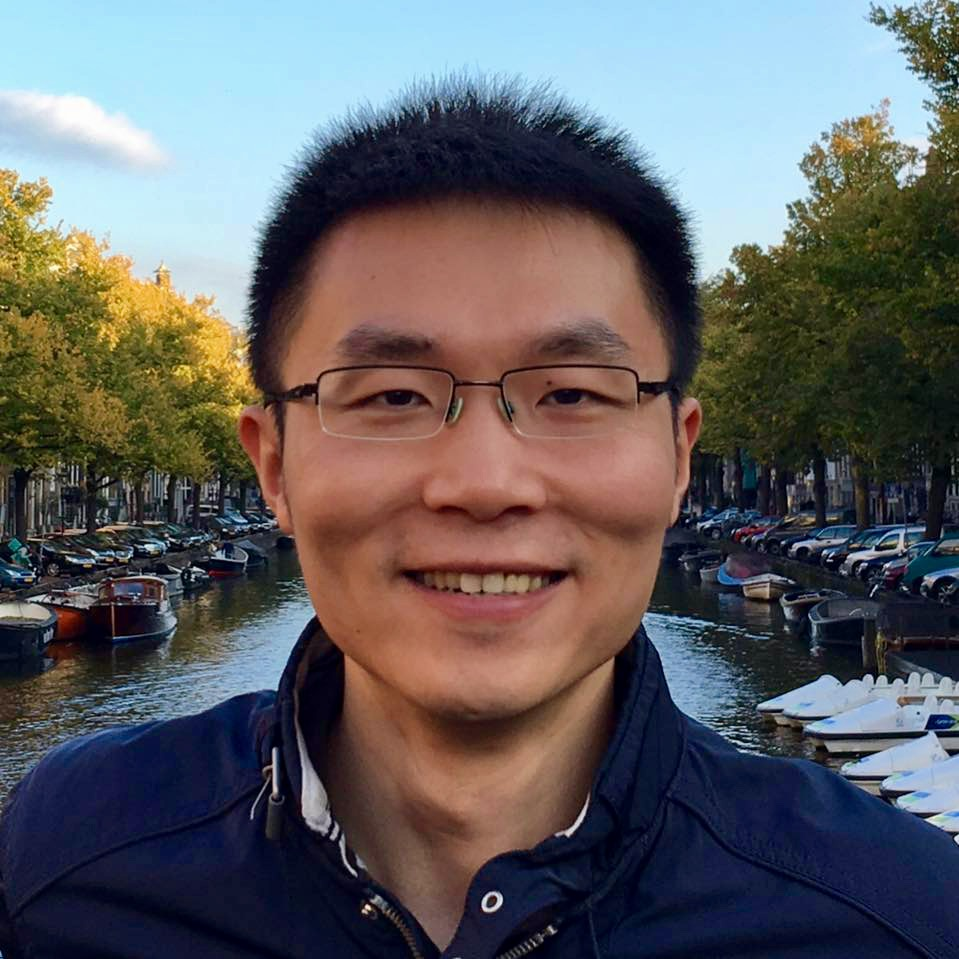
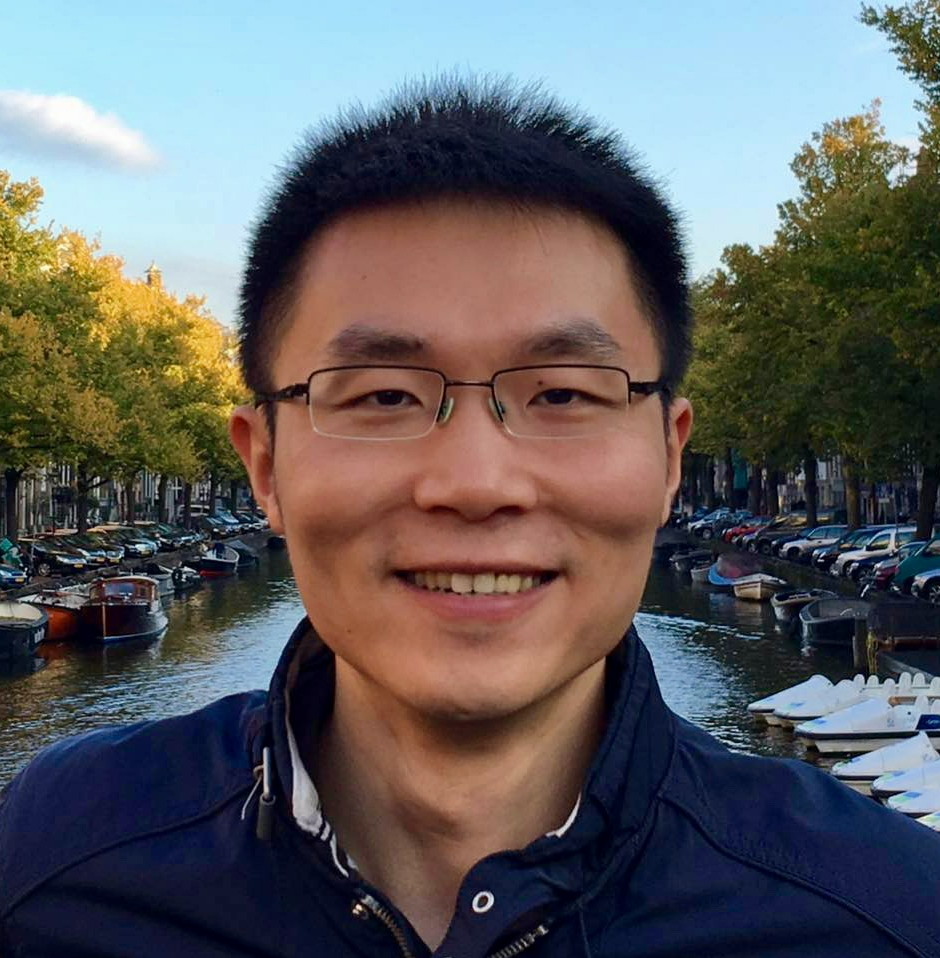
second draft by jiayuan

diff --git a/pages/organizers.html b/pages/organizers.html
@@ -28,11 +28,11 @@
   <header class="header">
     <div class="container">
       <div class="row">
-        <div class="col-xs-2">
+        <!-- <div class="col-xs-2">
           <a href="../">
             <img class="img-fluid" src=../images/logo.png alt="ML4H: Machine Learning for Health">
           </a>
-        </div>
+        </div> -->
         <div class="col-xs-10">
           <h1 class="title"><a href="../">NeurIPS 2020 Self-Supervised Learning: Theory and Practice</a></h1>
           <p class="text-muted">Workshop at NeurIPS 2020</p>
@@ -40,8 +40,8 @@
             <li class="list-inline-item"><a href="../pages/call-for-participation.html">Call for Participation</a></li>
             <li class="list-inline-item"><a href="../pages/schedule.html">Schedule</a></li>
             <li class="list-inline-item"><a href="../pages/speakers.html">Speakers</a></li>
-            <li class="list-inline-item"><a href="../pages/mentorship.html">Mentorship</a></li>
-            <li class="list-inline-item"><a href="../pages/resources.html">Resources</a></li>
+            <!-- <li class="list-inline-item"><a href="../pages/mentorship.html">Mentorship</a></li> -->
+            <!-- <li class="list-inline-item"><a href="../pages/resources.html">Resources</a></li> -->
             <li class="list-inline-item"><a href="../pages/organizers.html">Organizers</a></li>
           </ul>
         </div>
@@ -66,12 +66,11 @@ for helping peer review all submissions. -->
 
 
 <!-- <p><br /></p> -->
-<br />
 
 
 <div class="container">
 <div class="row display-flex">
-
+    <!-- <p><br /></p> -->
     <!-- <div id = "container"> -->
     <!-- 6/12 = 1/2 width on mobile, 4/12 = 1/3 screen on laptop -->
     <div class="col-xs-6 col-md-4"> 
@@ -80,7 +79,7 @@ for helping peer review all submissions. -->
         <img 
             src="../images/headshots_200x200/pengtao.jpg"
             alt="Pengtao Xie headshot"
-            style="width:88%"
+            style="width:270px;height:270px"
             align="center">
         <div class="caption">
             <h5>Pengtao Xie</h5>
@@ -101,7 +100,7 @@ for helping peer review all submissions. -->
     <!-- </div> -->
 
    
-    <br />
+    <!-- <br /> -->
     <!-- 6/12 = 1/2 width on mobile, 4/12 = 1/3 screen on laptop -->
     <div class="col-xs-6 col-md-4"> 
         <div class="thumbnail">
@@ -109,7 +108,7 @@ for helping peer review all submissions. -->
             <img 
                 src="../images/headshots_200x200/shanghang.jpg"
                 alt="Shanghang Zhang headshot"
-                style="width:88%"
+                style="width:270px;height:270px"
                 align="center">
             <div class="caption">
                 <h5>Shanghang Zhang</h5>
@@ -133,30 +132,34 @@ for helping peer review all submissions. -->
             .blb{float:left;width:65%}
         </style>
     
-
+    <!-- <p><br /></p> -->
+    <!-- <p><br /></p> -->
     <!-- 6/12 = 1/2 width on mobile, 4/12 = 1/3 screen on laptop -->
     <div class="col-xs-6 col-md-4"> 
         <div class="thumbnail">
             <a href="https://people.csail.mit.edu/pulkitag/">
             <img 
                 src="../images/headshots_200x200/pulkit.jpg"
-                alt="Pengtao Xie headshot"
-                style="width:88%"
+                alt="Pulkit Agrawal headshot"
+                style="width:270px;height:270px"
                 align="center">
             <div class="caption">
-                <h5>Pengtao Xie</h5>
+                <h5>Pulkit Agrawal</h5>
             </div>
             </a>
             <p>Assistant Professor, MIT
+            
             <!-- <br /> -->
             <!-- <emph>Finance Chair</emph> -->
             <!-- </p> -->
             <br />
             <emph>Email:</emph>
             <a href="pulkitag@mit.edu"> pulkitag@mit.edu </a>
+            
             <!-- <br /> -->
             <!-- <emph><a href="https://scholar.google.com/citations?user=voqw10cAAAAJ&hl=en"> Google Scholar Page</a></emph> -->
-            </p>     
+            </p>    
+            <br /> 
     </div>
     </div>
 
@@ -166,6 +169,7 @@ for helping peer review all submissions. -->
     <br />
     <br />
     <br />
+    <!-- <p><br /></p> -->
 
     <!-- 6/12 = 1/2 width on mobile, 4/12 = 1/3 screen on laptop -->
     <div class="col-xs-6 col-md-4"> 
@@ -174,7 +178,7 @@ for helping peer review all submissions. -->
             <img 
                 src="../images/headshots_200x200/ishan.jpg"
                 alt="Pengtao Xie headshot"
-                style="width:88%"
+                style="width:270px;height:270px"
                 align="center">
             <div class="caption">
                 <h5>Ishan Misra</h5>
@@ -203,7 +207,7 @@ for helping peer review all submissions. -->
             <img 
                 src="../images/headshots_200x200/cynthia.jpg"
                 alt="Pengtao Xie headshot"
-                style="width:88%"
+                style="width:270px;height:270px"
                 align="center">
             <div class="caption">
                 <h5>Cynthia Rudin</h5>
@@ -232,7 +236,7 @@ for helping peer review all submissions. -->
             <img 
                 src="../images/headshots_200x200/mohamed.jpg"
                 alt="Pengtao Xie headshot"
-                style="width:88%"
+                style="width:270px;height:270px"
                 align="center">
             <div class="caption">
                 <h5>Abdelrahman Mohamed</h5>
@@ -264,7 +268,7 @@ for helping peer review all submissions. -->
             <img 
                 src="../images/headshots_200x200/Wenzhen.jpg"
                 alt="Pengtao Xie headshot"
-                style="width:88%"
+                style="width:270px;height:270px"
                 align="center">
             <div class="caption">
                 <h5>Wenzhen Yuan</h5>
@@ -298,7 +302,7 @@ for helping peer review all submissions. -->
             <img 
                 src="../images/headshots_200x200/zoph.jpg"
                 alt="Pengtao Xie headshot"
-                style="width:88%"
+                style="width:270px;height:270px"
                 align="center">
             <div class="caption">
                 <h5>Barret Zoph</h5>
@@ -328,7 +332,7 @@ for helping peer review all submissions. -->
             <img 
                 src="../images/headshots_200x200/eric.jpg"
                 alt="Pengtao Xie headshot"
-                style="width:88%"
+                style="width:270px;height:270px"
                 align="center">
             <div class="caption">
                 <h5>Eric Xing</h5>

diff --git a/pages/speakers.html b/pages/speakers.html
@@ -28,11 +28,11 @@
   <header class="header">
     <div class="container">
       <div class="row">
-        <div class="col-xs-2">
+        <!-- <div class="col-xs-2">
           <a href="../">
             <img class="img-fluid" src=../images/logo.png alt="ML4H: Machine Learning for Health">
           </a>
-        </div>
+        </div> -->
         <div class="col-xs-10">
           <h1 class="title"><a href="../">NeurIPS 2020 Self-Supervised Learning: Theory and Practice</a></h1>
           <p class="text-muted">Workshop at NeurIPS 2020</p>
@@ -40,8 +40,8 @@
             <li class="list-inline-item"><a href="../pages/call-for-participation.html">Call for Participation</a></li>
             <li class="list-inline-item"><a href="../pages/schedule.html">Schedule</a></li>
             <li class="list-inline-item"><a href="../pages/speakers.html">Speakers</a></li>
-            <li class="list-inline-item"><a href="../pages/mentorship.html">Mentorship</a></li>
-            <li class="list-inline-item"><a href="../pages/resources.html">Resources</a></li>
+            <!-- <li class="list-inline-item"><a href="../pages/mentorship.html">Mentorship</a></li> -->
+            <!-- <li class="list-inline-item"><a href="../pages/resources.html">Resources</a></li> -->
             <li class="list-inline-item"><a href="../pages/organizers.html">Organizers</a></li>
           </ul>
         </div>
@@ -71,7 +71,7 @@
         <img 
             src="../images/speakers_200x200/yann.jpg"
             alt="Pengtao Xie headshot"
-            style="width:250px;height:340px"
+            style="width:270px;height:270px"
             align="center">
         <div class="caption">
             <h5>Yann LeCun</h5>
@@ -97,7 +97,7 @@
             <img 
                 src="../images/speakers_200x200/ruslan.jpg"
                 alt="Pengtao Xie headshot"
-                style="width:250px;height:340px"
+                style="width:270px;height:270px"
                 align="center">
             <div class="caption">
                 <h5>Ruslan Salakhutdinov</h5>
@@ -123,7 +123,7 @@
             <img 
                 src="../images/speakers_200x200/malik.jpg"
                 alt="Pengtao Xie headshot"
-                style="width:250px;height:340px"
+                style="width:270px;height:270px"
                 align="center">
             <div class="caption">
                 <h5>Jitendra Malik </h5>
@@ -149,7 +149,7 @@
             <img 
                 src="../images/speakers_200x200/grauman.jpg"
                 alt="Pengtao Xie headshot"
-                style="width:250px;height:340px"
+                style="width:270px;height:270px"
                 align="center">
             <div class="caption">
                 <h5>Kristen Grauman</h5>
@@ -175,7 +175,7 @@
             <img 
                 src="../images/speakers_200x200/oriol.jpg"
                 alt="Pengtao Xie headshot"
-                style="width:250px;height:340px"
+                style="width:270px;height:270px"
                 align="center">
             <div class="caption">
                 <h5>Oriol Vinyals</h5>
@@ -198,7 +198,7 @@
             <img 
                 src="../images/speakers_200x200/finn.jpg"
                 alt="Pengtao Xie headshot"
-                style="width:320px;height:340px"
+                style="width:270px;height:270px"
                 align="center">
             <div class="caption">
                 <h5>Chelsea Finn</h5>
@@ -221,7 +221,7 @@
             <img 
                 src="../images/speakers_200x200/guibas.jpg"
                 alt="Pengtao Xie headshot"
-                style="widows: 250px;height:340px"
+                style="width:270px;height:270px"
                 align="center">
             <div class="caption">
                 <h5>Leonidas J. Guibas</h5>
@@ -244,7 +244,7 @@
             <img 
                 src="../images/speakers_200x200/alexei.jpg"
                 alt="Pengtao Xie headshot"
-                style="widows:250px;height:340px"
+                style="width:270px;height:270px"
                 align="center">
             <div class="caption">
                 <h5>Alexei A. Efros</h5>
@@ -267,7 +267,7 @@
             <img 
                 src="../images/speakers_200x200/yejin.jpg"
                 alt="Pengtao Xie headshot"
-                style="widows:250px;height:340px"
+                style="width:270px;height:270px"
                 align="center">
             <div class="caption">
                 <h5>Yejin Choi</h5>
@@ -290,7 +290,7 @@
             <img 
                 src="../images/speakers_200x200/deng.jpg"
                 alt="Pengtao Xie headshot"
-                style="width:88%"
+                style="width:270px;height:270px"
                 align="center">
             <div class="caption">
                 <h5>Jia Deng </h5>
@@ -313,7 +313,7 @@
             <img 
                 src="../images/speakers_200x200/gupta.jpg"
                 alt="Pengtao Xie headshot"
-                style="width:88%"
+                style="width:270px;height:270px"
                 align="center">
             <div class="caption">
                 <h5>Abhinav Gupta</h5>
@@ -336,7 +336,7 @@
             <img 
                 src="../images/speakers_200x200/katerina.jpg"
                 alt="Pengtao Xie headshot"
-                style="width:88%"
+                style="width:270px;height:270px"
                 align="center">
             <div class="caption">
                 <h5>Katerina Fragkiadaki</h5>
@@ -359,7 +359,7 @@
             <img 
                 src="../images/speakers_200x200/le.jpg"
                 alt="Pengtao Xie headshot"
-                style="width:88%"
+                style="width:270px;height:270px"
                 align="center">
             <div class="caption">
                 <h5>Quoc V. Le</h5>

diff --git a/index.html b/index.html
@@ -28,11 +28,11 @@
   <header class="header">
     <div class="container">
       <div class="row">
-        <div class="col-xs-2">
+        <!-- <div class="col-xs-2">
           <a href="./">
             <img class="img-fluid" src=./images/logo.png alt="ML4H: Machine Learning for Health">
           </a>
-        </div>
+        </div> -->
         <div class="col-xs-10">
           <h1 class="title"><a href="../">NeurIPS 2020 Workshop: Self-Supervised Learning - Theory and Practice</a></h1>
           <ul class="list-inline">
@@ -56,7 +56,7 @@
     <div class="container">
 
 <div class="row">
-<div class="col-md-7">
+<!-- <div class="col-md-7"> -->
     <p>
         <!-- <b>
             ML4H 2020: a workshop at
@@ -68,8 +68,8 @@
     
     <p>Self-supervised learning (SSL) is an unsupervised approach for representation learning without relying on human-provided labels. It creates auxiliary tasks on unlabeled input data and learns representations by solving these tasks. SSL has demonstrated great success on images (e.g., MoCo, PIRL, SimCLR) and texts (e.g., BERT) and has shown promising results in other data modalities, including graphs, time-series, audio, etc. On a wide variety of tasks, SSL without using human-provided labels achieves performance that is close to fully supervised approaches.</p>  
     <p>The existing SSL research mostly focuses on improving the empirical performance without a theoretical foundation. While the proposed SSL approaches are empirically effective, theoretically why they perform well is not clear. For example, why certain auxiliary tasks in SSL perform better than others? How many unlabeled data examples are needed by SSL to learn a good representation? How is the performance of SSL affected by neural architectures? </p>  
-    <div></div>
-</div>
+    <!-- <div></div> -->
+<!-- </div> -->
 
 
     </div>

diff --git a/pages/call-for-participation.html b/pages/call-for-participation.html
@@ -28,11 +28,11 @@
   <header class="header">
     <div class="container">
       <div class="row">
-        <div class="col-xs-2">
+        <!-- <div class="col-xs-2">
           <a href="../">
             <img class="img-fluid" src=../images/logo.png alt="ML4H: Machine Learning for Health">
           </a>
-        </div>
+        </div> -->
         <div class="col-xs-10">
           <h1 class="title"><a href="../">NeurIPS 2020 Self-Supervised Learning: Theory and Practice</a></h1>
           <p class="text-muted">Workshop at NeurIPS 2020</p>
@@ -40,8 +40,8 @@
             <li class="list-inline-item"><a href="../pages/call-for-participation.html">Call for Participation</a></li>
             <li class="list-inline-item"><a href="../pages/schedule.html">Schedule</a></li>
             <li class="list-inline-item"><a href="../pages/speakers.html">Speakers</a></li>
-            <li class="list-inline-item"><a href="../pages/mentorship.html">Mentorship</a></li>
-            <li class="list-inline-item"><a href="../pages/resources.html">Resources</a></li>
+            <!-- <li class="list-inline-item"><a href="../pages/mentorship.html">Mentorship</a></li> -->
+            <!-- <li class="list-inline-item"><a href="../pages/resources.html">Resources</a></li> -->
             <li class="list-inline-item"><a href="../pages/organizers.html">Organizers</a></li>
           </ul>
         </div>

diff --git a/pages/schedule.html b/pages/schedule.html
@@ -28,11 +28,11 @@
   <header class="header">
     <div class="container">
       <div class="row">
-        <div class="col-xs-2">
+        <!-- <div class="col-xs-2">
           <a href="../">
             <img class="img-fluid" src=../images/logo.png alt="ML4H: Machine Learning for Health">
           </a>
-        </div>
+        </div> -->
         <div class="col-xs-10">
           <h1 class="title"><a href="../">NeurIPS 2020 Self-Supervised Learning: Theory and Practice</a></h1>
           <p class="text-muted">Workshop at NeurIPS 2020</p>
